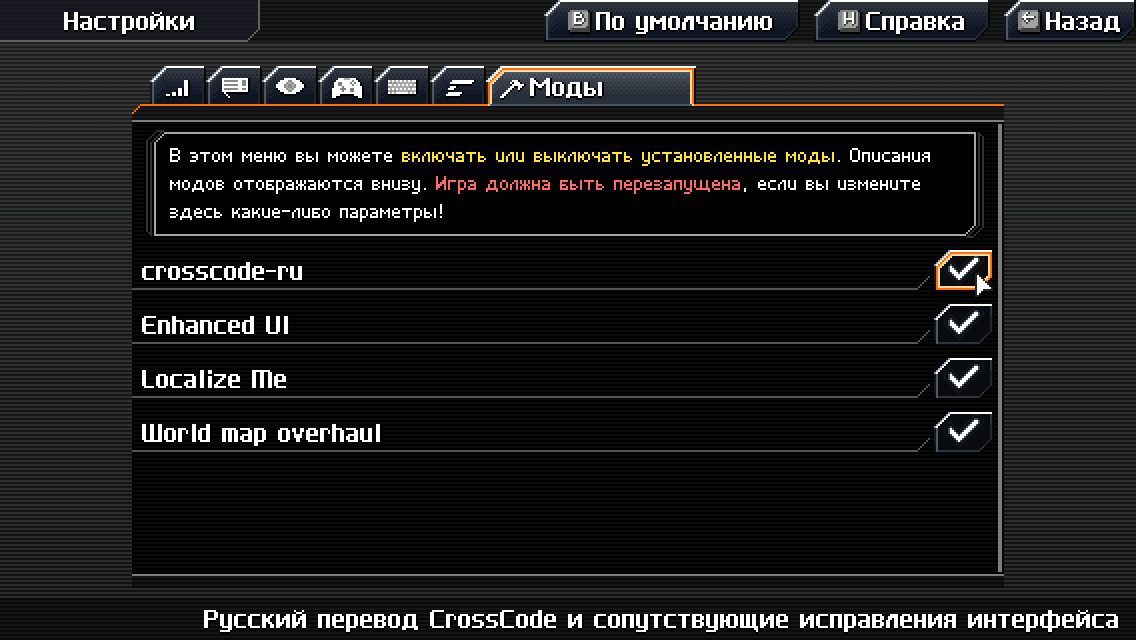
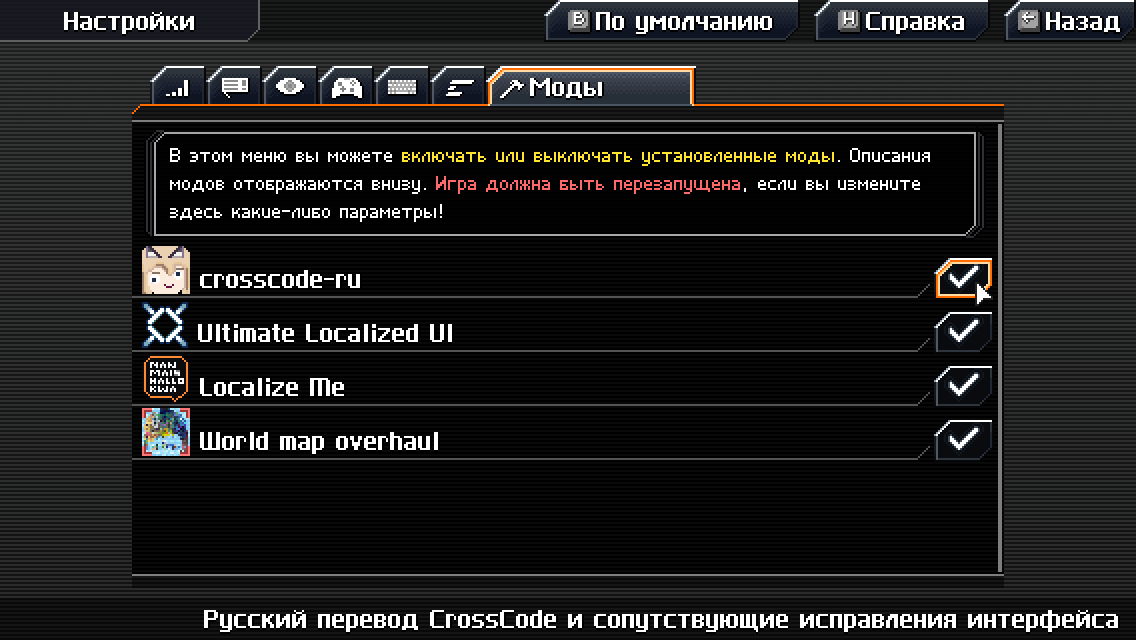
change the title of enhanced-ui to "Ultimate Localized UI"

Changed region(s): [[0.1232, 0.375, 0.8935, 0.7188]]

diff --git a/README.md b/README.md
@@ -136,10 +136,10 @@
 
 Краткие описания функционала каждого мода:
 
-- [World map overhaul](https://github.com/dmitmel/cc-world-map-overhaul#readme) _(опционально)_ - Улучшенная карта мира
-- crosscode-ru _(не выключать!)_ - Собственно, русский перевод CrossCode и сопутствующие исправления интерфейса
-- Enhanced UI _(не выключать!)_ - Различные улучшения и общие исправления графического интерфейса пользователя (требуется для работы crosscode-ru)
-- [Localize Me](https://github.com/L-Sherry/Localize-me#readme) _(не выключать!)_ - Мод для создания дополнительных региональных настроек, языков и переводов (требуется для работы crosscode-ru)
+- **crosscode-ru** _(не выключать!)_ - Русский перевод CrossCode собственной персоной, главный мод в модпаке, содержит файлы (пакеты) с переводами строк и исправления интерфейса _специфичные_ для русского языка.
+- **Ultimate Localized UI** _(не выключать!)_ - Общие улучшения и исправления интерфейса пользователя, разработан и _требуется_ для crosscode-ru, но теперь используется также и в других проектах перевода CrossCode.
+- [**Localize Me**](https://github.com/L-Sherry/Localize-me#readme) _(не выключать!)_ - Мод для добавления новых языков в игру, внедрения переводов и изменения прочих региональных настроек, просто _необходим_ для работы crosscode-ru.
+- [**World map overhaul**](https://github.com/dmitmel/cc-world-map-overhaul#readme) _(опционально)_ - Улучшенная карта мира, нарисована очень-очень давно одним из ключевых членов команды переводчиков.
 
 **ВНИМАНИЕ!** Думаю, что это уже стало очевидным, но после включения или выключения модов требуется перезапуск игры!
 
